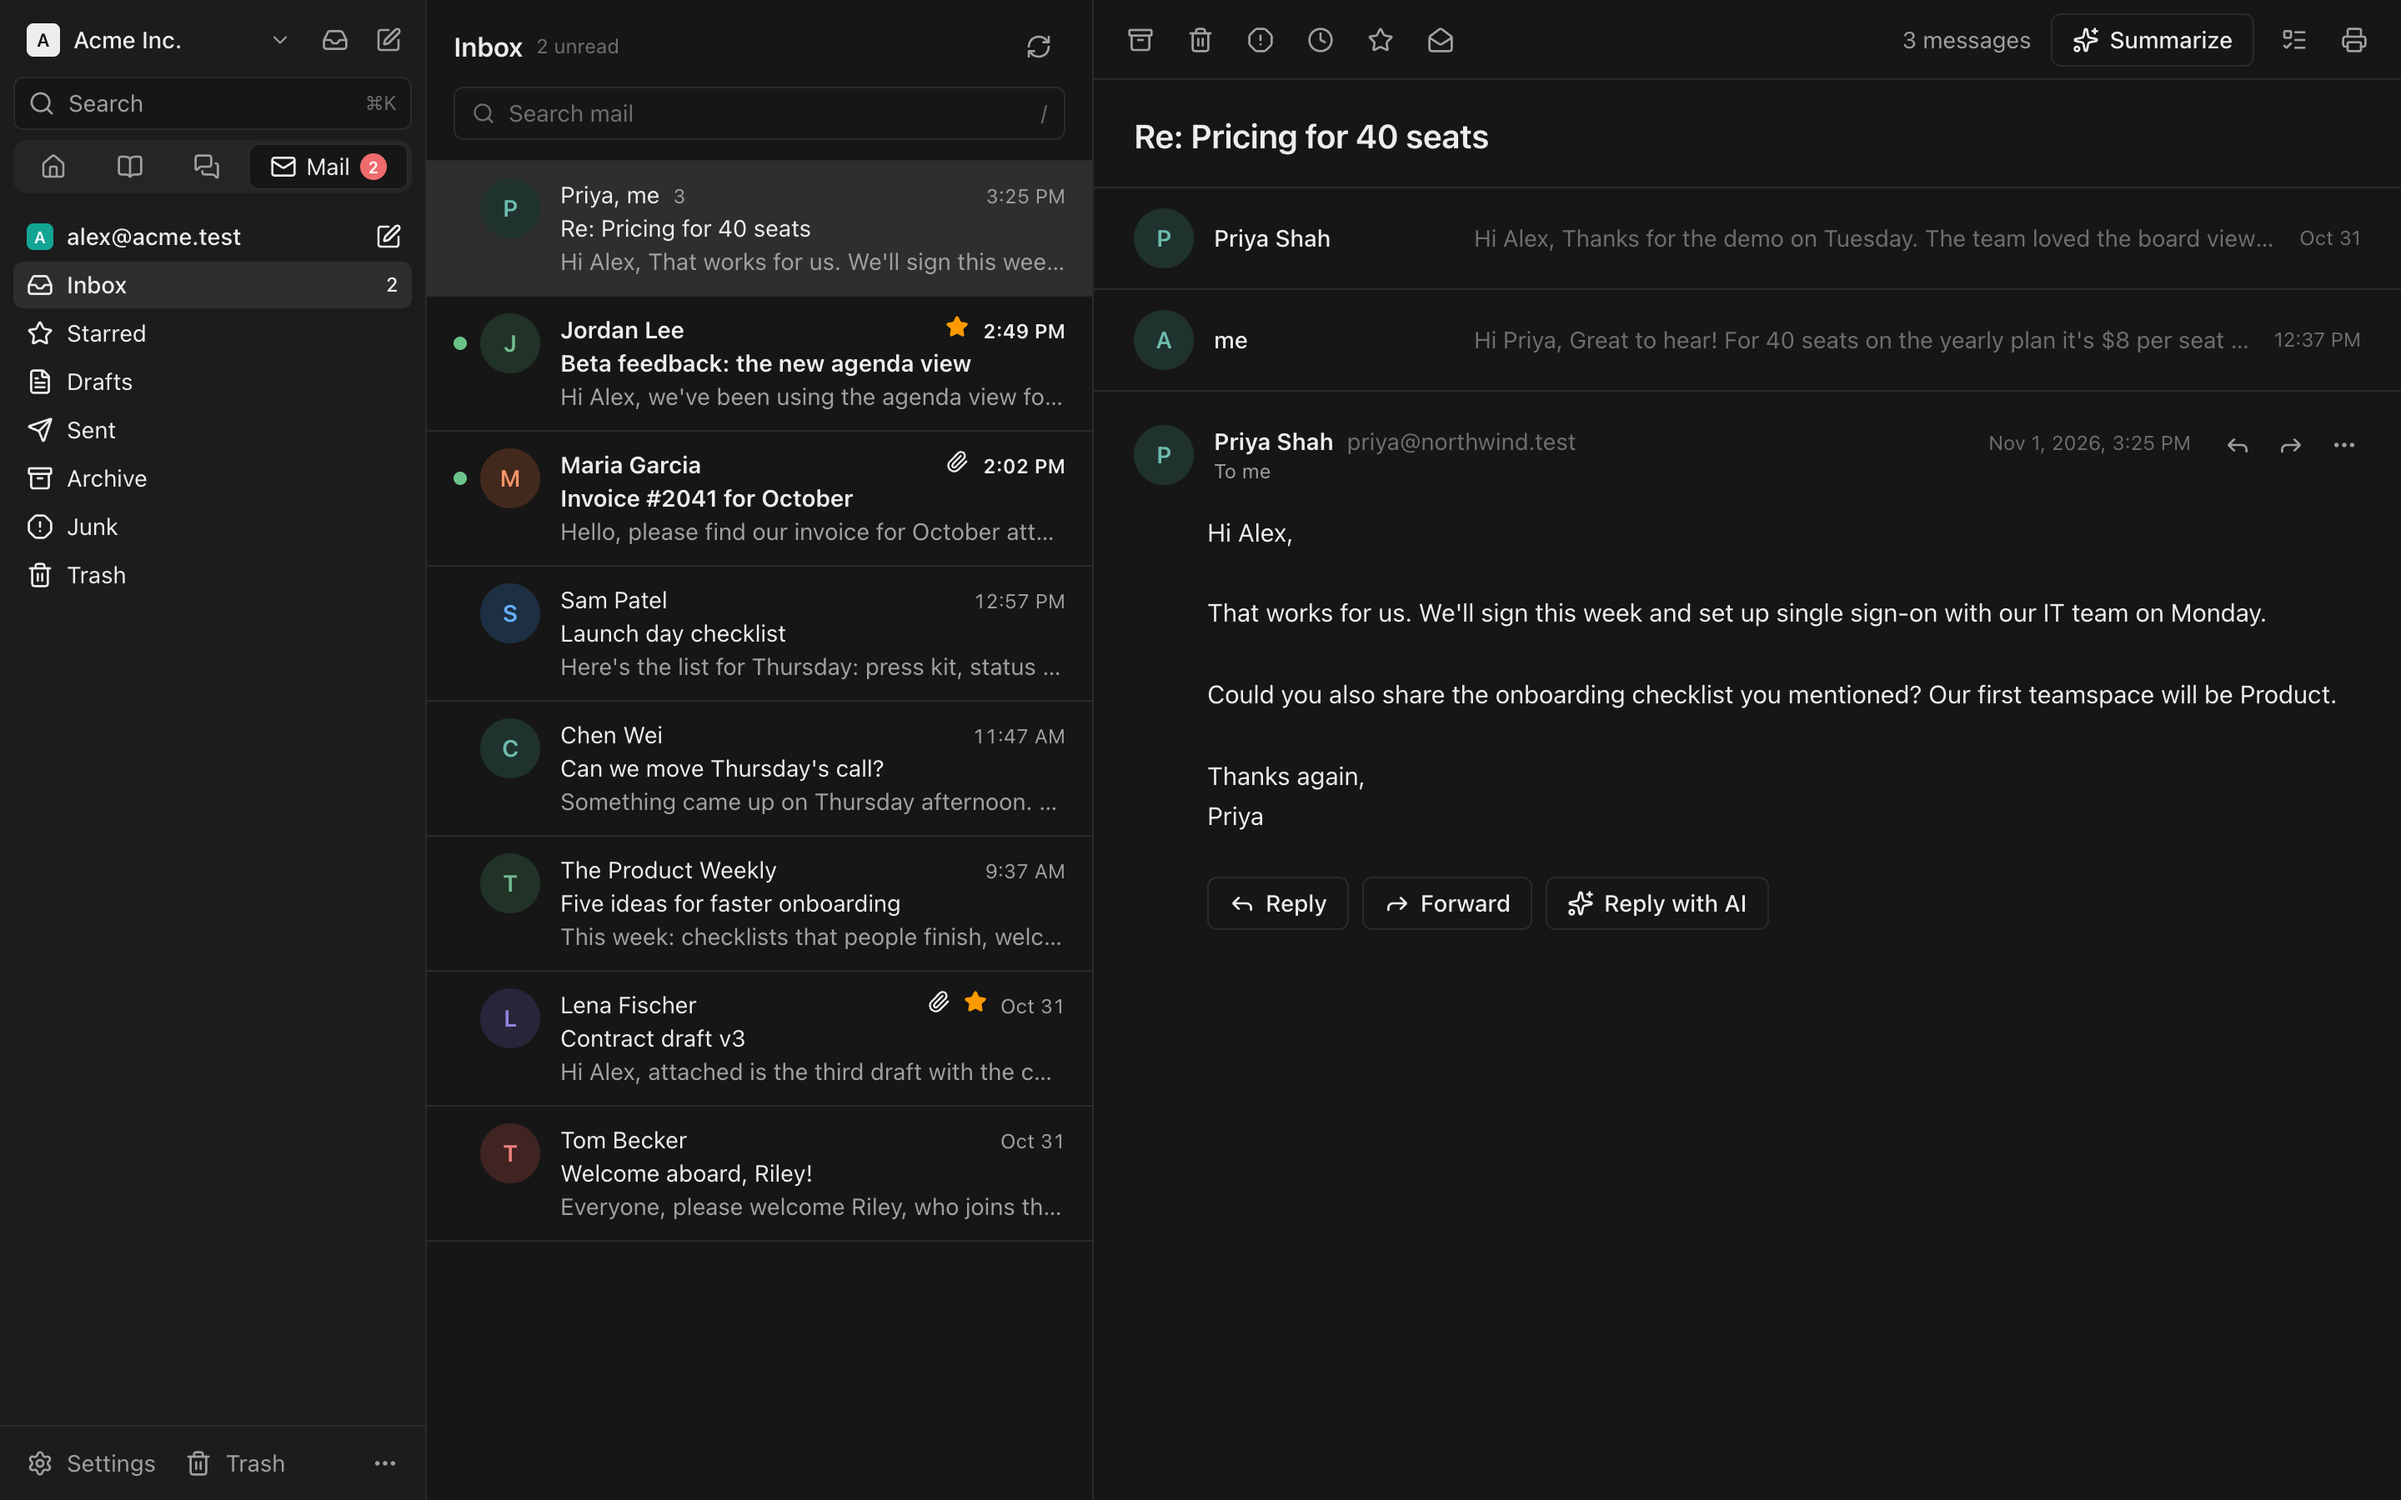
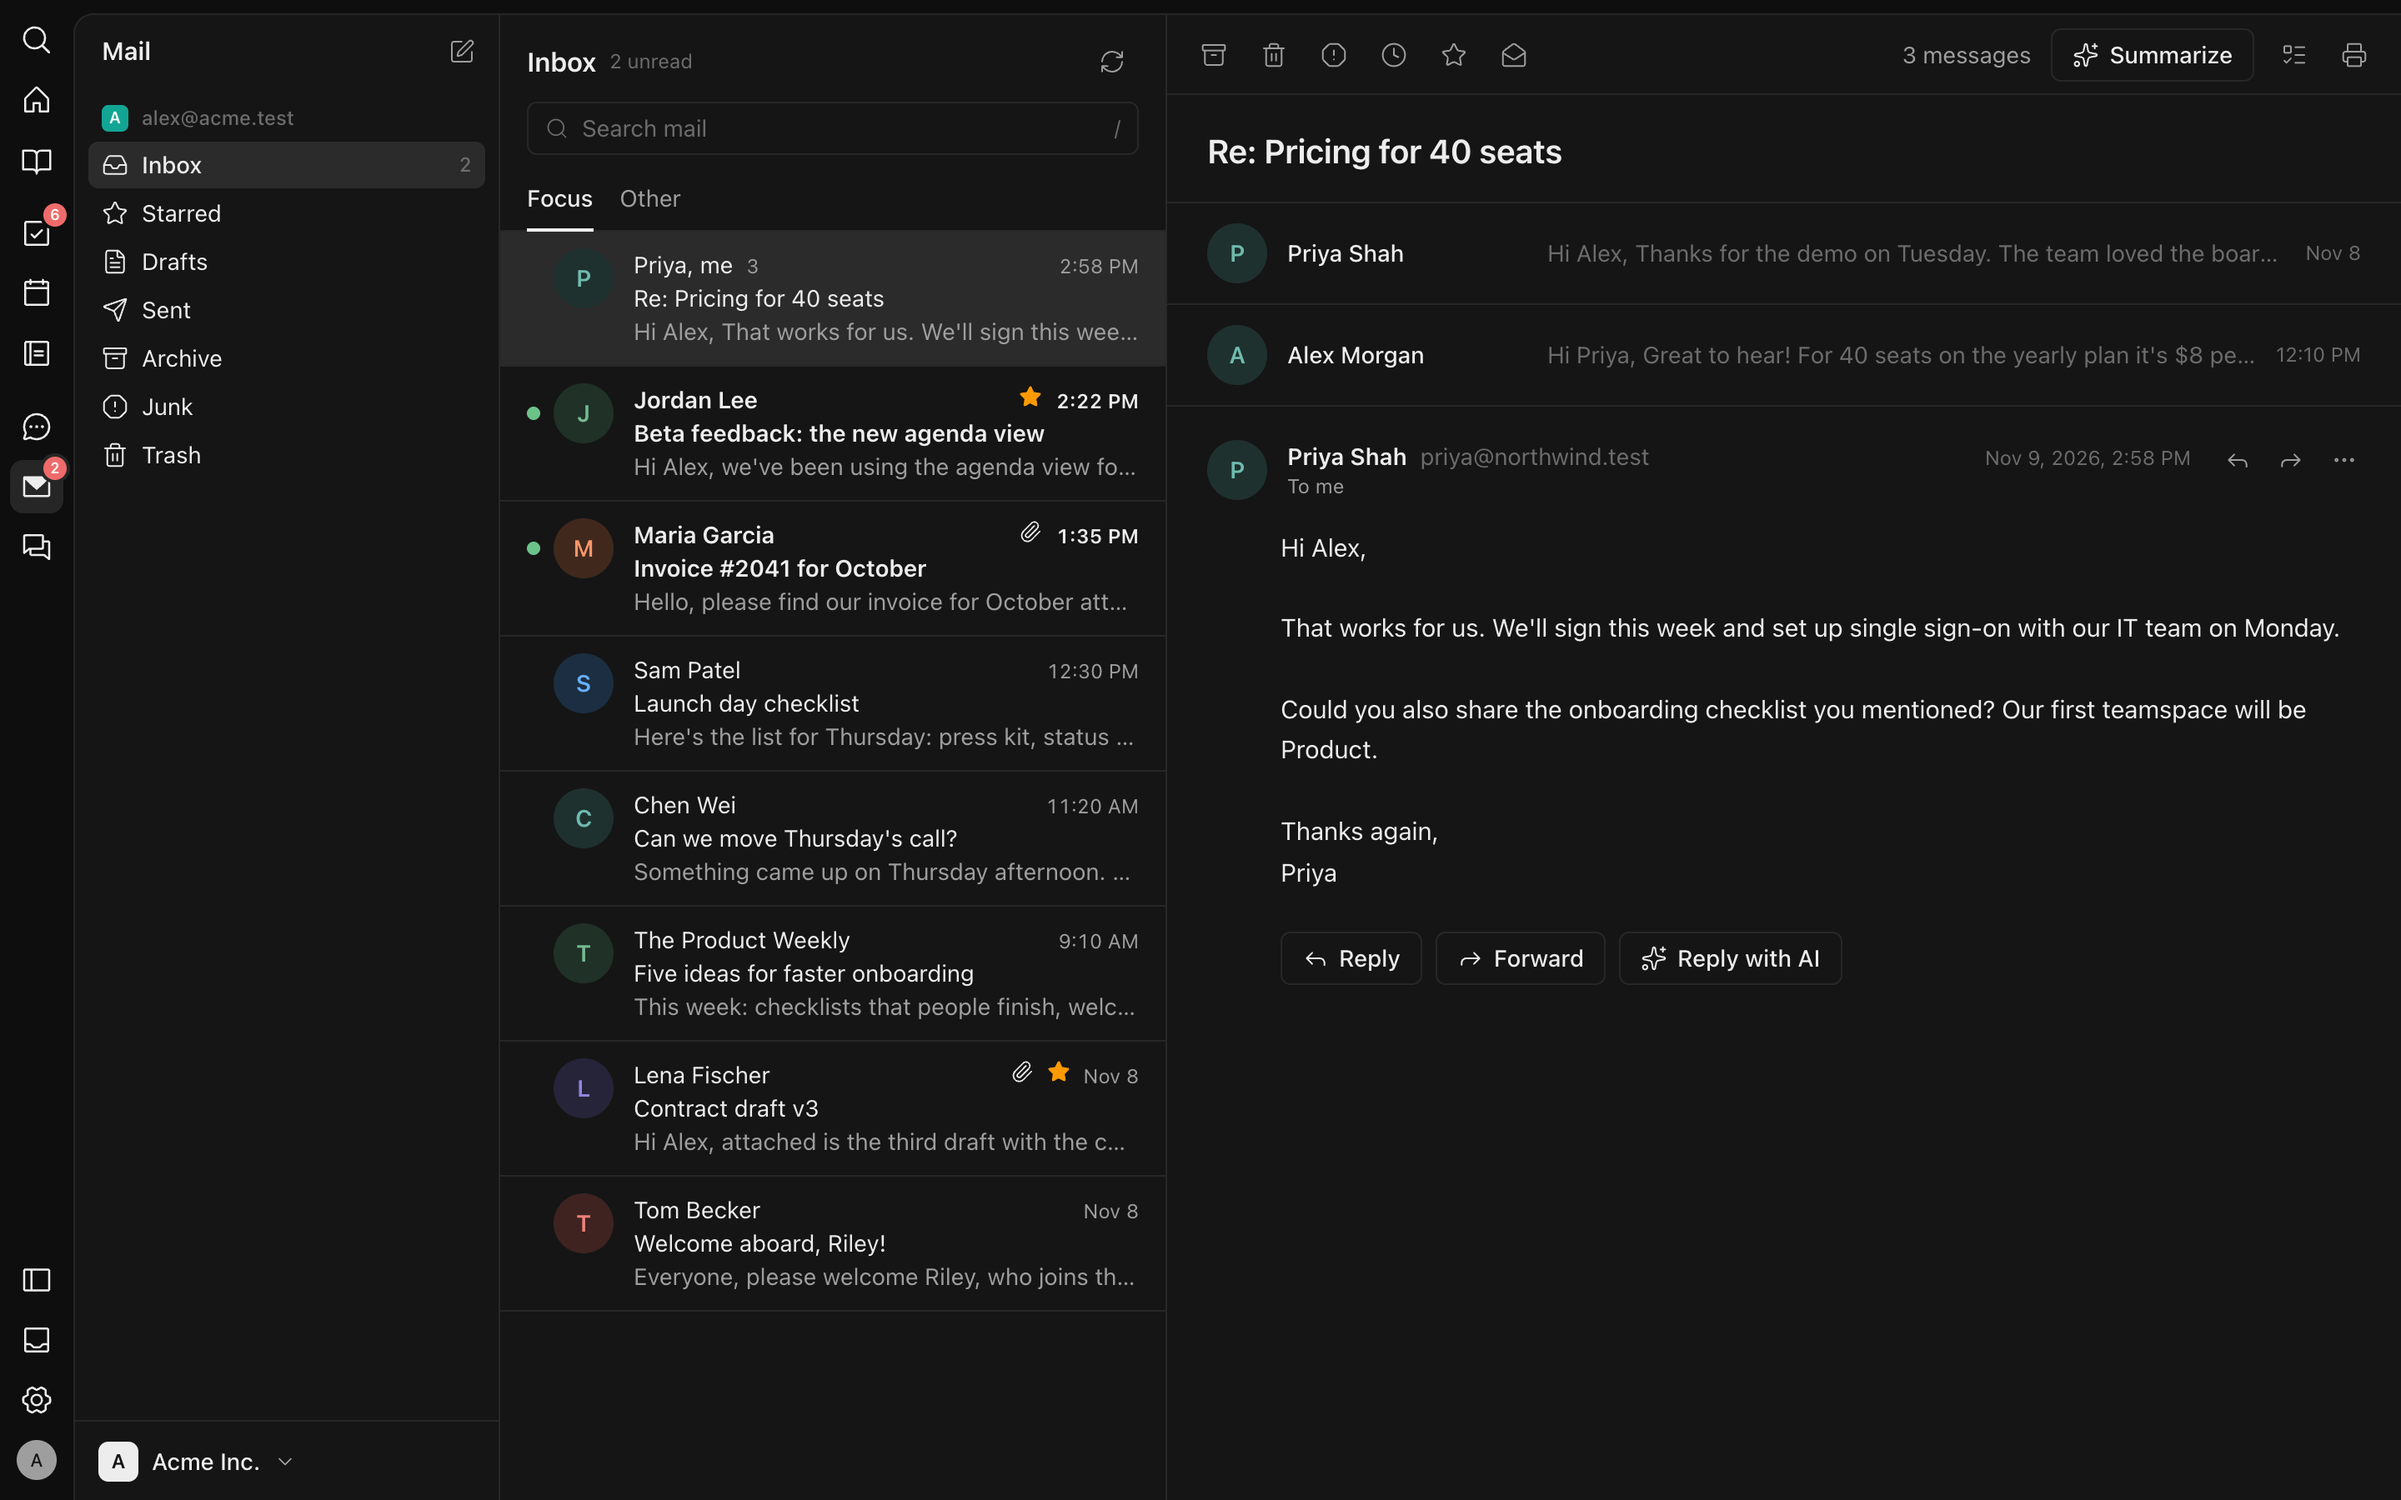
Show the rail and the current look in the README's and website's screenshots
The board, Mail and desktop app screenshots and the link previews made from
them still showed the sidebar from before its rail of places and the green
primary button. They are taken again; Messages, Catch up and the desktop
app's first screen were current and stay.

The screenshot script started GreenMail on random ports while
MAIL_ALLOWED_HOSTS=127.0.0.1 allows a bare host on mail's own ports only, so
its Mail shots failed: GreenMail now listens on 3925 and 3943 (or
GREENMAIL_SMTP_PORT, GREENMAIL_IMAP_PORT), which the server is started with,
and the shot waits long enough for the minute sweep to read the sent folder.

diff --git a/scripts/screenshots.ts b/scripts/screenshots.ts
@@ -5,7 +5,7 @@
  * same place's Catch up summing up a busy channel, in the light and the dark scheme, in headless
  * Chrome against a running server. Run it again after the interface's look changes.
  *
- *   pnpm build && MAIL_ALLOWED_HOSTS=127.0.0.1 pnpm start   # one terminal
+ *   pnpm build && MAIL_ALLOWED_HOSTS=127.0.0.1:3925,127.0.0.1:3943 pnpm start   # one terminal
  *   pnpm tsx scripts/screenshots.ts [board] [mail] [messages]   # another; all of them by default
  *
  * Writes .github/screenshots/{board,mail,messages,catch-up}-{light,dark}.png (1440×900 at 2×, the
@@ -14,8 +14,9 @@
  * on each run; its owner is screenshots@example.test, who can't sign in (the script makes the
  * session). The script writes the new pages' live documents itself, which is safe with the server
  * running: no one has them open yet. The Mail tab's shots read a mailbox on GreenMail
- * (greenmail/standalone:2.1.14, started here with Docker on free ports and removed at the end),
- * which MAIL_ALLOWED_HOSTS lets the server reach. Catch up asks the server's AI (AI_PROVIDER and
+ * (greenmail/standalone:2.1.14, started here with Docker and removed at the end) on SMTP port 3925
+ * and IMAP port 3943 (GREENMAIL_SMTP_PORT, GREENMAIL_IMAP_PORT), which MAIL_ALLOWED_HOSTS lets the
+ * server reach: a bare host there allows mail's own ports only. Catch up asks the server's AI (AI_PROVIDER and
  * the rest of its settings) for each of its four shots, so their words differ a little each run.
  * The agent's answer in the thread is written here, not by a run: it reads the same each time.
  *
@@ -25,7 +26,6 @@
 import { execFileSync, spawn } from "node:child_process";
 import { randomBytes } from "node:crypto";
 import { mkdtempSync, rmSync, writeFileSync } from "node:fs";
-import { type AddressInfo, createServer } from "node:net";
 import { tmpdir } from "node:os";
 import { join } from "node:path";
 import { makeSignature } from "better-auth/crypto";
@@ -35,8 +35,11 @@ import MailComposer from "nodemailer/lib/mail-composer";
 try {
   process.loadEnvFile();
 } catch {}
+// GreenMail's ports, which the server's MAIL_ALLOWED_HOSTS must name too.
+const SMTP_PORT = Number(process.env.GREENMAIL_SMTP_PORT ?? 3925);
+const IMAP_PORT = Number(process.env.GREENMAIL_IMAP_PORT ?? 3943);
 // Connecting the mailbox checks its server here too.
-process.env.MAIL_ALLOWED_HOSTS = "127.0.0.1";
+process.env.MAIL_ALLOWED_HOSTS = `127.0.0.1:${SMTP_PORT},127.0.0.1:${IMAP_PORT}`;
 
 // Imported after .env is loaded: the database client reads DATABASE_URL when it is created.
 const { eq, inArray, max, sql } = await import("drizzle-orm");
@@ -199,23 +202,12 @@ const SENT: Mail = {
   replyTo: "pricing-1",
 };
 
-function freePort(): Promise<number> {
-  return new Promise((resolve, reject) => {
-    const server = createServer();
-    server.once("error", reject);
-    server.listen(0, MAIL_HOST, () => {
-      const { port } = server.address() as AddressInfo;
-      server.close(() => resolve(port));
-    });
-  });
-}
-
 const docker = (...args: string[]) => execFileSync("docker", args, { stdio: ["ignore", "pipe", "pipe"] }).toString().trim();
 
 /** Starts GreenMail, puts Alex's mail in it and connects it as Alex's mailbox in the workspace. */
 async function seedMail(workspaceId: string) {
-  const smtpPort = await freePort();
-  const imapPort = await freePort();
+  const smtpPort = SMTP_PORT;
+  const imapPort = IMAP_PORT;
   try {
     docker("rm", "-f", MAIL_CONTAINER);
   } catch {}
@@ -513,7 +505,8 @@ try {
   async function mail(scheme: "light" | "dark", scale: number, format: "png" | "jpeg", out: string) {
     await tab("Emulation.setDeviceMetricsOverride", { width: 1440, height: 900, deviceScaleFactor: scale, mobile: false });
     await tab("Emulation.setEmulatedMedia", { features: [{ name: "prefers-color-scheme", value: scheme }] });
-    // The thread joins Alex's answer once the sent folder is read too, which may come after the inbox.
+    // The thread joins Alex's answer once the sent folder is read too: the minute sweep reads it after
+    // the inbox, so this waits up to about two minutes.
     for (let attempt = 1; ; attempt++) {
       await tab("Page.navigate", { url: `${BASE}/w/${workspaceId}/mail` });
       // The first read of the mailbox runs in the background as Mail lists it.
@@ -522,7 +515,7 @@ try {
       await until(`document.body.innerText.includes(${JSON.stringify(OPENED_TEXT)}) && document.fonts.status === "loaded"`, "the open thread");
       await new Promise((r) => setTimeout(r, 2_000));
       if (await evaluate<boolean>(`document.body.innerText.includes(${JSON.stringify(SENT_TEXT)})`)) break;
-      if (attempt === 10) throw new Error("Alex's answer never joined the thread");
+      if (attempt === 20) throw new Error("Alex's answer never joined the thread");
       await new Promise((r) => setTimeout(r, 3_000));
     }
     const { data } = await tab<{ data: string }>("Page.captureScreenshot", { format, ...(format === "jpeg" ? { quality: 88 } : {}) });
